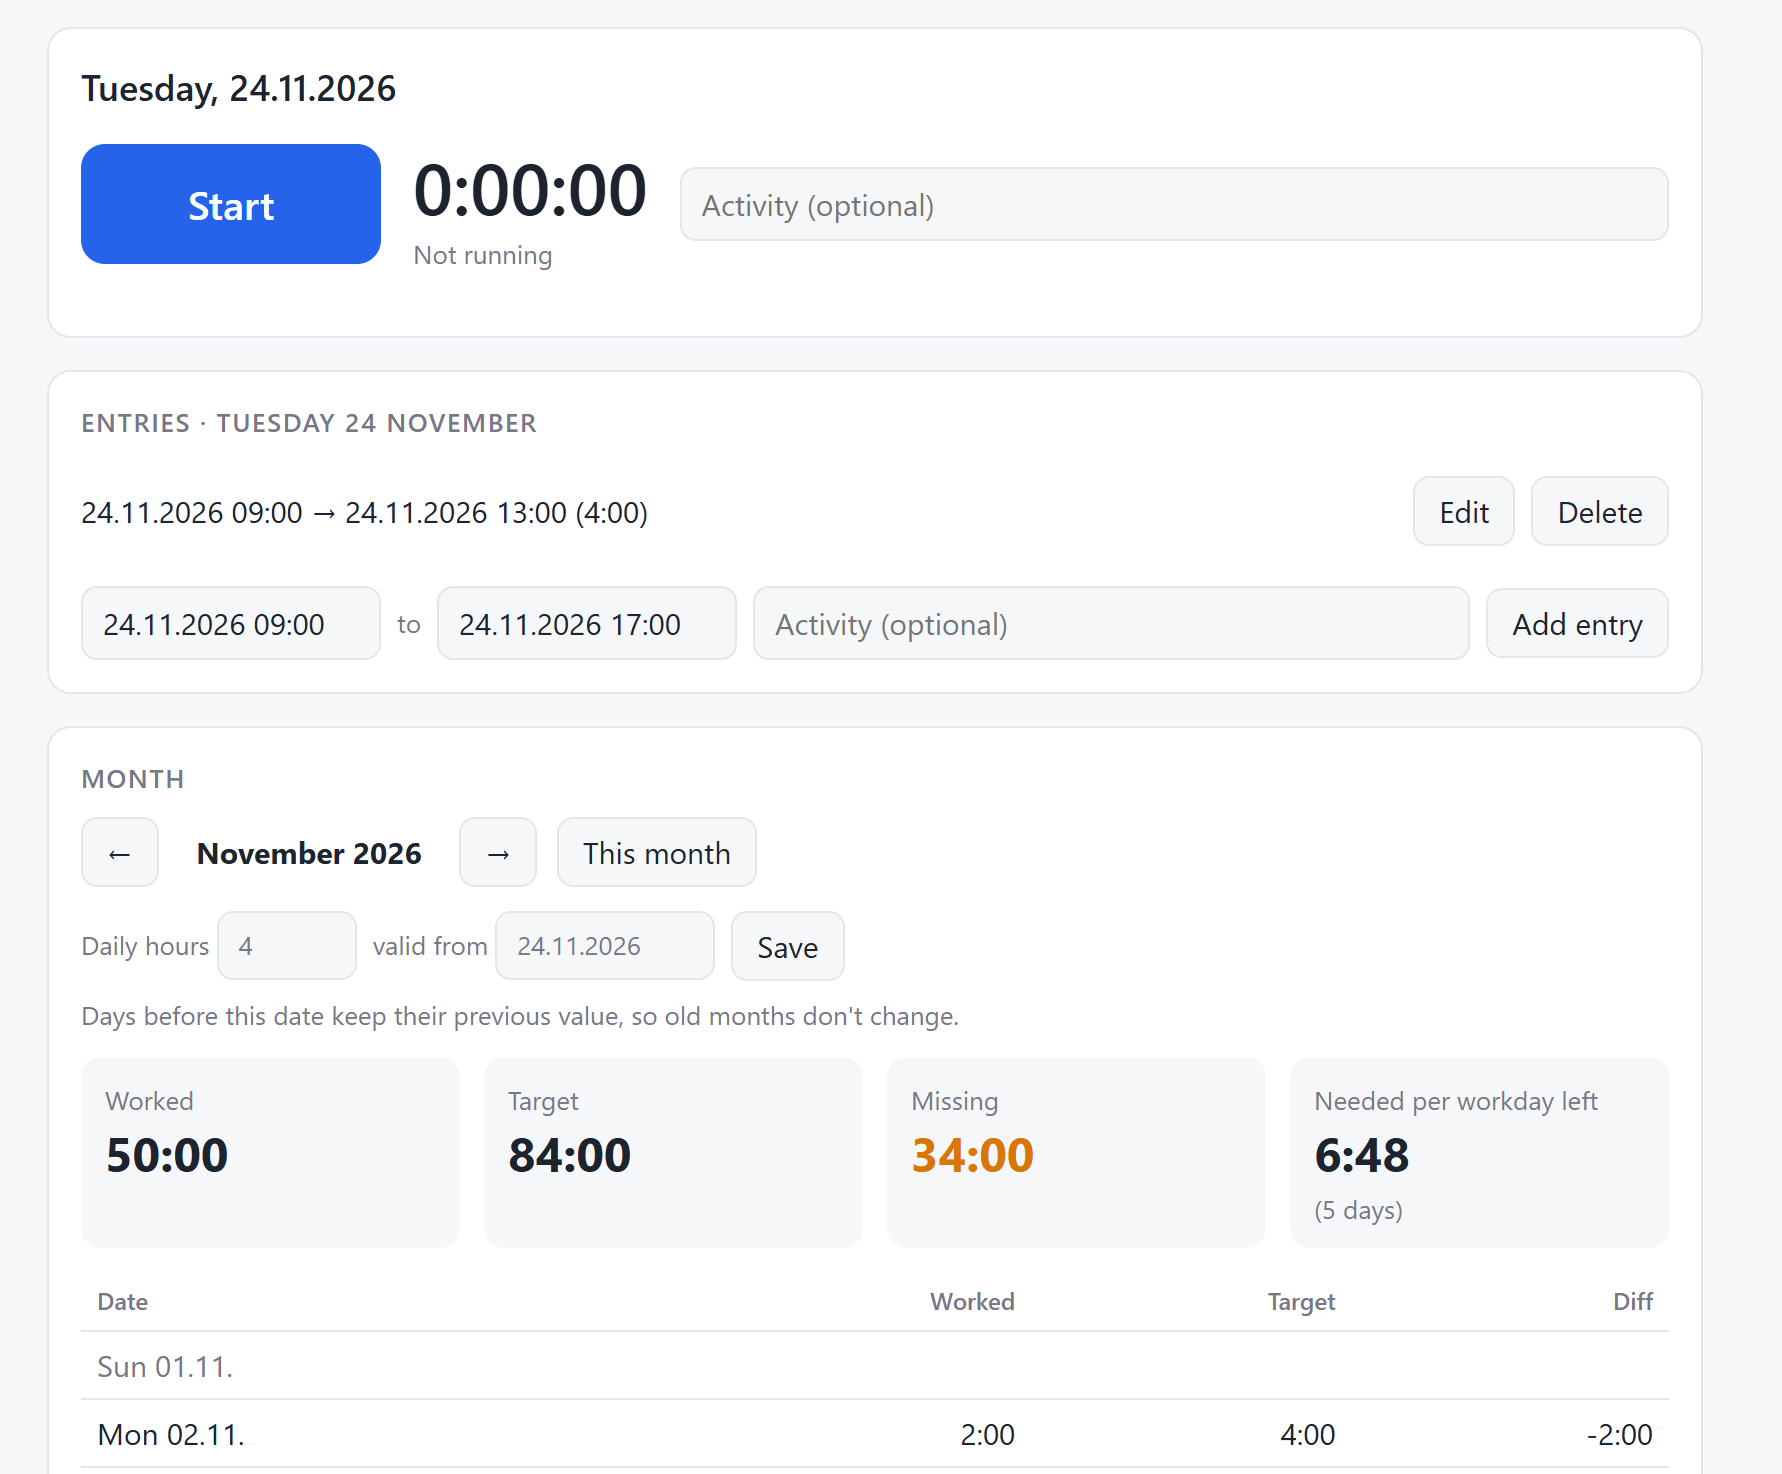
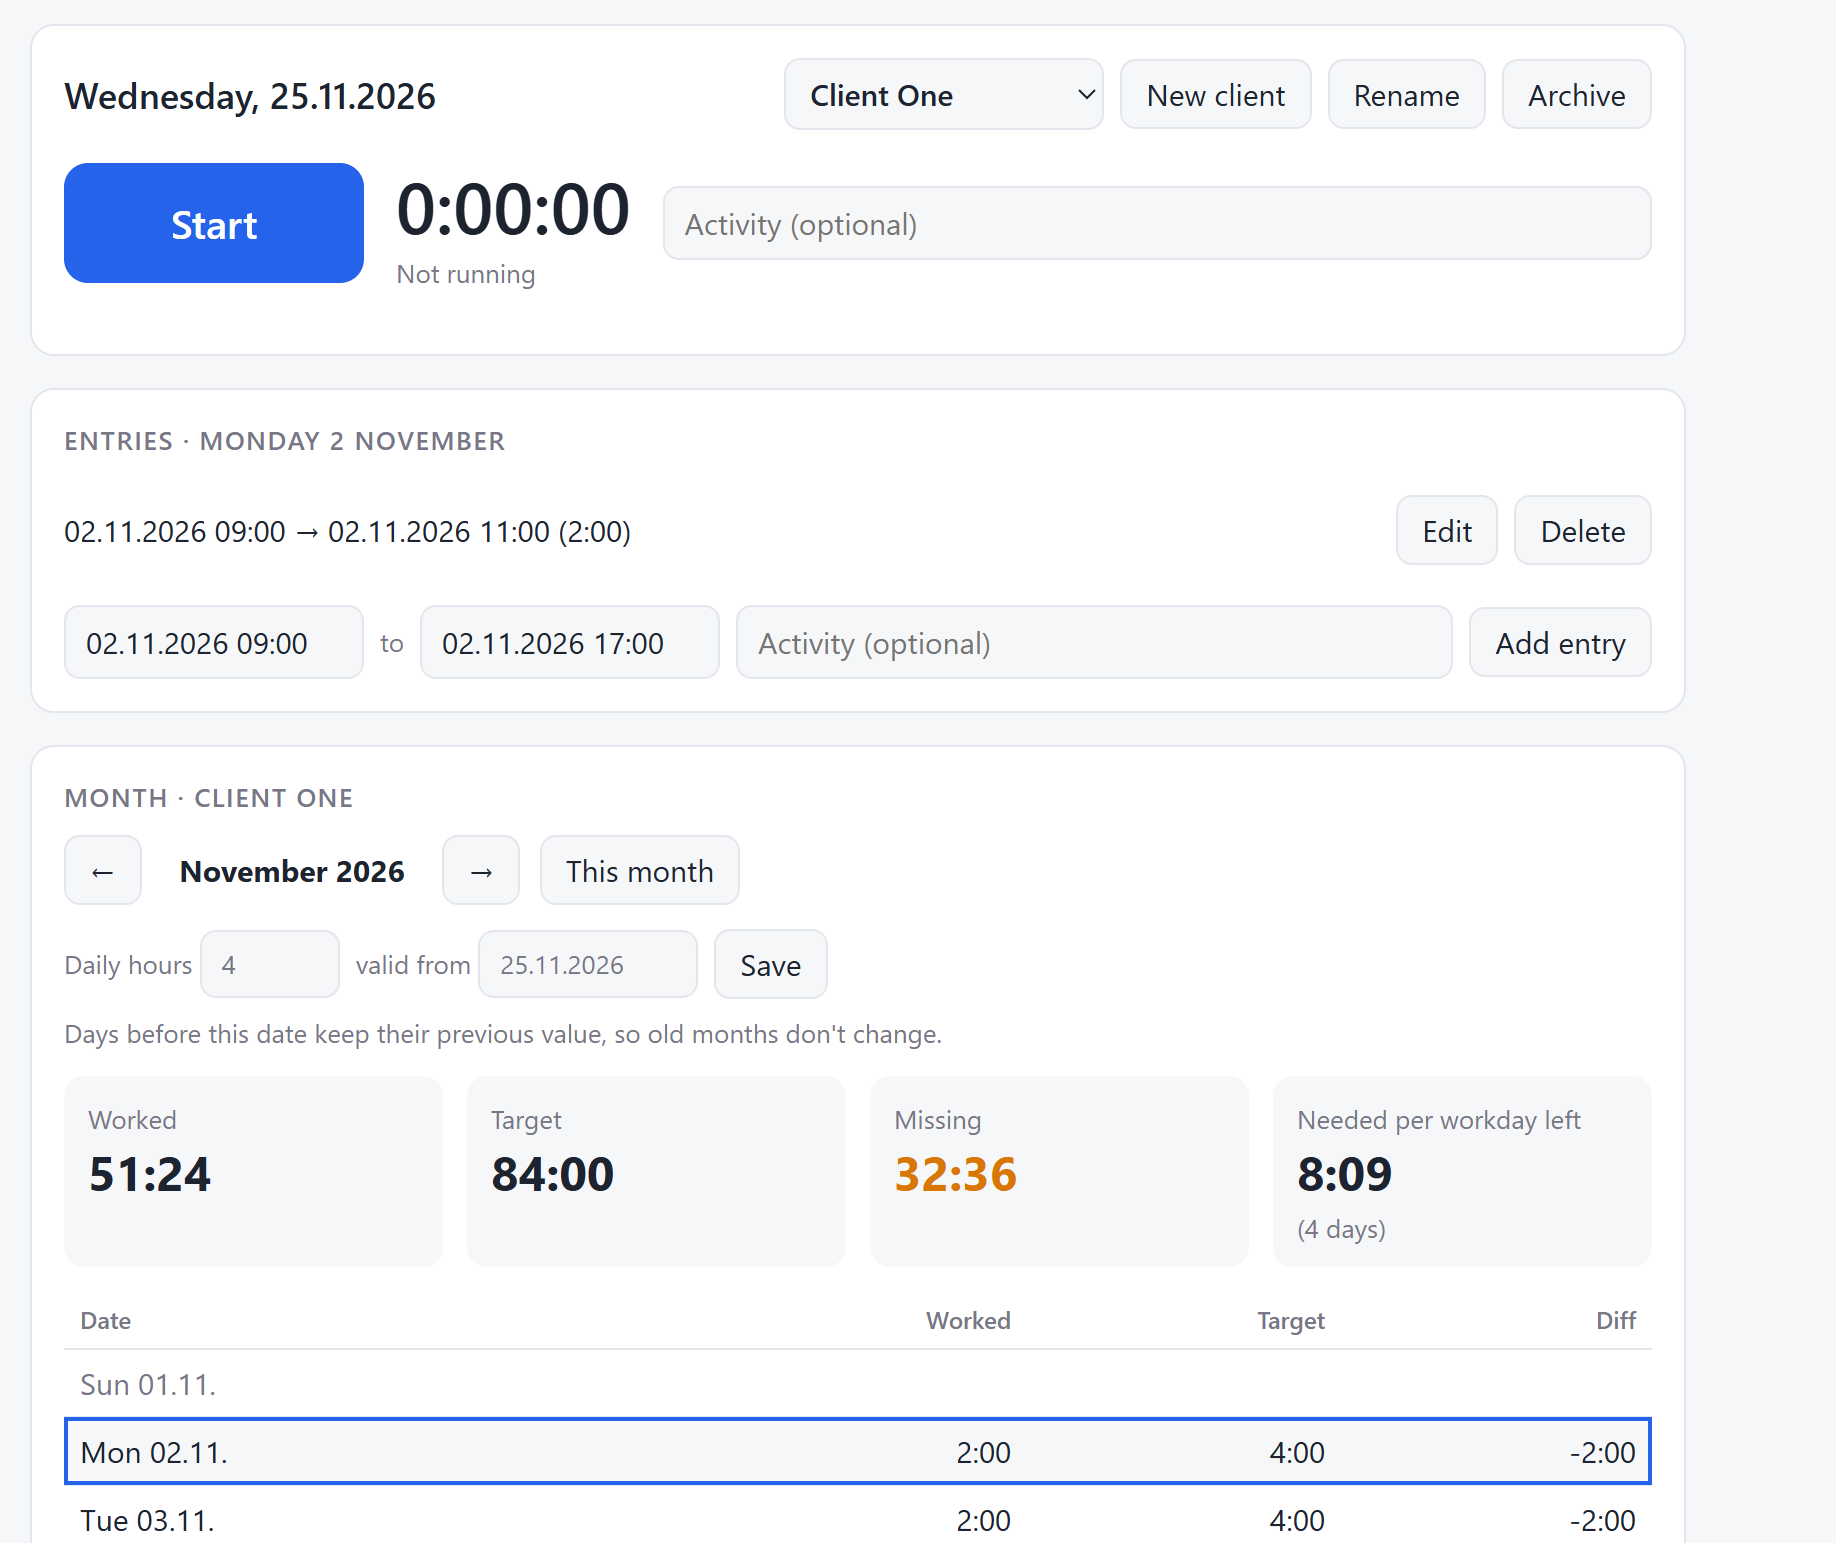
Update screenshot with the client picker

diff --git a/README.md b/README.md
@@ -4,7 +4,7 @@
 
 Personal start/stop time tracker for several clients. Python standard library only (no `pip install`), SQLite storage, single-page UI.
 
-![TimeTracker: start/stop timer, entries for the selected day, and the monthly overview with worked, target and missing hours](docs/screenshot.png)
+![TimeTracker: client picker and start/stop timer, entries for the selected day, and the client's monthly overview with worked, target and missing hours](docs/screenshot.png)
 
 - One-click start/stop timer, manual entries, editing, per-day entry list.
 - Several clients, each with its own entries and daily hours. One timer: starting it for another client stops the running one.
